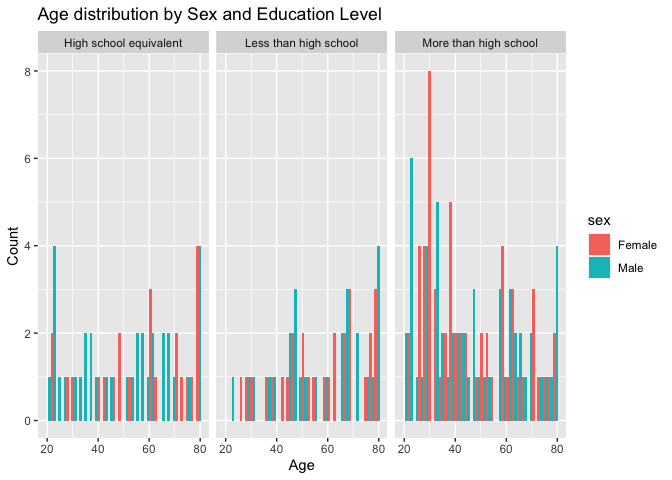
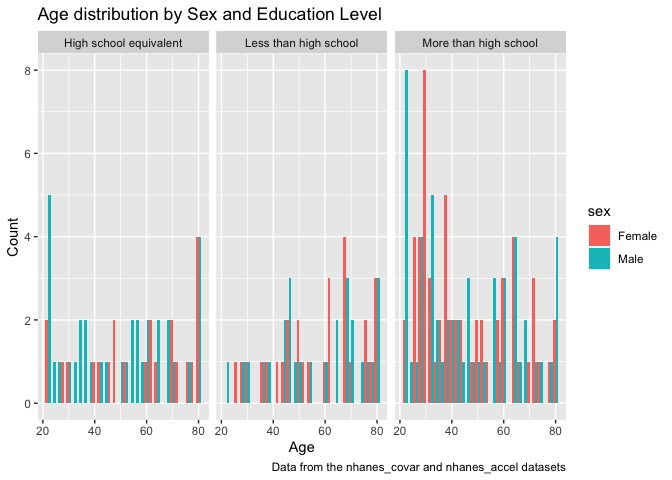
slightly change to theme, and facet_grid

diff --git a/p8105_hw3_xz3173.md b/p8105_hw3_xz3173.md
@@ -86,7 +86,8 @@ instacart |>
   coord_flip() + # to make it horizontal for better readability
   labs(title = "Number of Items Ordered in Each Aisle",
        x = "Aisle",
-       y = "Number of Items Ordered") +
+       y = "Number of Items Ordered",
+       caption = "Data from the instacart package") +
   theme_minimal()
 ```
 
@@ -103,7 +104,8 @@ instacart |>
   coord_flip() +
   labs(title = "Number of Items Ordered in Each Aisle",
        x = "Aisle",
-       y = "Number of Items Ordered") +
+       y = "Number of Items Ordered",
+       caption = "Data from the instacart package") +
   theme_minimal()
 ```
 
@@ -280,8 +282,10 @@ ggplot(excellent_df, aes(x = year, y = average_value, group = locationabbr, colo
   geom_line() +
   labs(title = "Average Value Over Time for 'Excellent' Response", 
        x = "Year", 
-       y = "Average Value") +
-  theme_minimal()
+       y = "Average Value",
+       caption = "Data from the brfss_smart2010 package") +
+  theme_classic() +
+  theme(legend.position = "bottom")
 ```
 
 ![](p8105_hw3_xz3173_files/figure-gfm/unnamed-chunk-11-1.png)<!-- -->
@@ -296,11 +300,13 @@ ny_df = brfss_smart2010 |>
 
 ggplot(ny_df, aes(x = response, y = data_value)) +
   geom_boxplot() +
-  facet_wrap(~year, ncol = 2) +
+  facet_grid(. ~ year) +
   labs(title = "Distribution of Data Value in NY for 2006 and 2010", 
        x = "Response", 
-       y = "Data Value") +
-  theme_minimal()
+       y = "Data Value",
+       caption = "Data from the brfss_smart2010 package") +
+  theme_classic() +
+  theme(legend.position = "bottom")
 ```
 
 ![](p8105_hw3_xz3173_files/figure-gfm/unnamed-chunk-12-1.png)<!-- -->
@@ -399,11 +405,12 @@ each education category.
 
 ``` r
 ggplot(merged_df, aes(x = age, fill = sex)) +
-  geom_histogram(position = "dodge", bins = 30) +
-  facet_wrap(~education) +
+  geom_histogram(position = "dodge", binwidth = 2) +
+  facet_grid(. ~ education) +
   labs(title = "Age distribution by Sex and Education Level",
        x = "Age",
-       y = "Count")
+       y = "Count",
+       caption = "Data from the nhanes_covar and nhanes_accel datasets")
 ```
 
 ![](p8105_hw3_xz3173_files/figure-gfm/unnamed-chunk-17-1.png)<!-- -->
@@ -431,14 +438,15 @@ activity_df = merged_df |>
 ``` r
 ggplot(activity_df, aes(x = age, y = total_activity, color = sex)) +
   geom_point() +
-  geom_smooth(method = "lm") +
-  facet_wrap(~education) +
+  geom_smooth(se = FALSE) +
+  facet_wrap(. ~ education) +
   labs(title = "Total Activity vs. Age by Education Level",
        x = "Age",
-       y = "Total Activity")
+       y = "Total Activity",
+       caption = "Data from the nhanes_covar and nhanes_accel datasets") 
 ```
 
-    ## `geom_smooth()` using formula = 'y ~ x'
+    ## `geom_smooth()` using method = 'loess' and formula = 'y ~ x'
 
 ![](p8105_hw3_xz3173_files/figure-gfm/unnamed-chunk-18-1.png)<!-- -->
 
@@ -453,16 +461,19 @@ inspection_activity = merged_df |>
   pivot_longer(
     cols = starts_with("min"),
     names_to = "Minute",
+    names_prefix = "min",
     values_to = "Activity") |>
-  mutate(Minute = as.numeric(str_replace(Minute, "min", "")))
+  mutate(Minute = as.numeric(Minute))
 
 ggplot(inspection_activity, aes(x = Minute, y = Activity, color = sex)) +
   geom_line() +
-  facet_wrap(~education, scales = "free_y") +
+  facet_grid(. ~ education) +
   labs(title = "24-hour Activity Time Course by Education Level",
-       x = "Time of Day (in minutes since midnight",
-       y = "Activity") +
-  theme_minimal()
+       x = "Time of Day",
+       y = "Activity",
+       caption = "Data from the nhanes_covar and nhanes_accel datasets") +
+  theme_classic() +
+  theme(legend.position = "bottom")
 ```
 
 ![](p8105_hw3_xz3173_files/figure-gfm/unnamed-chunk-19-1.png)<!-- -->
